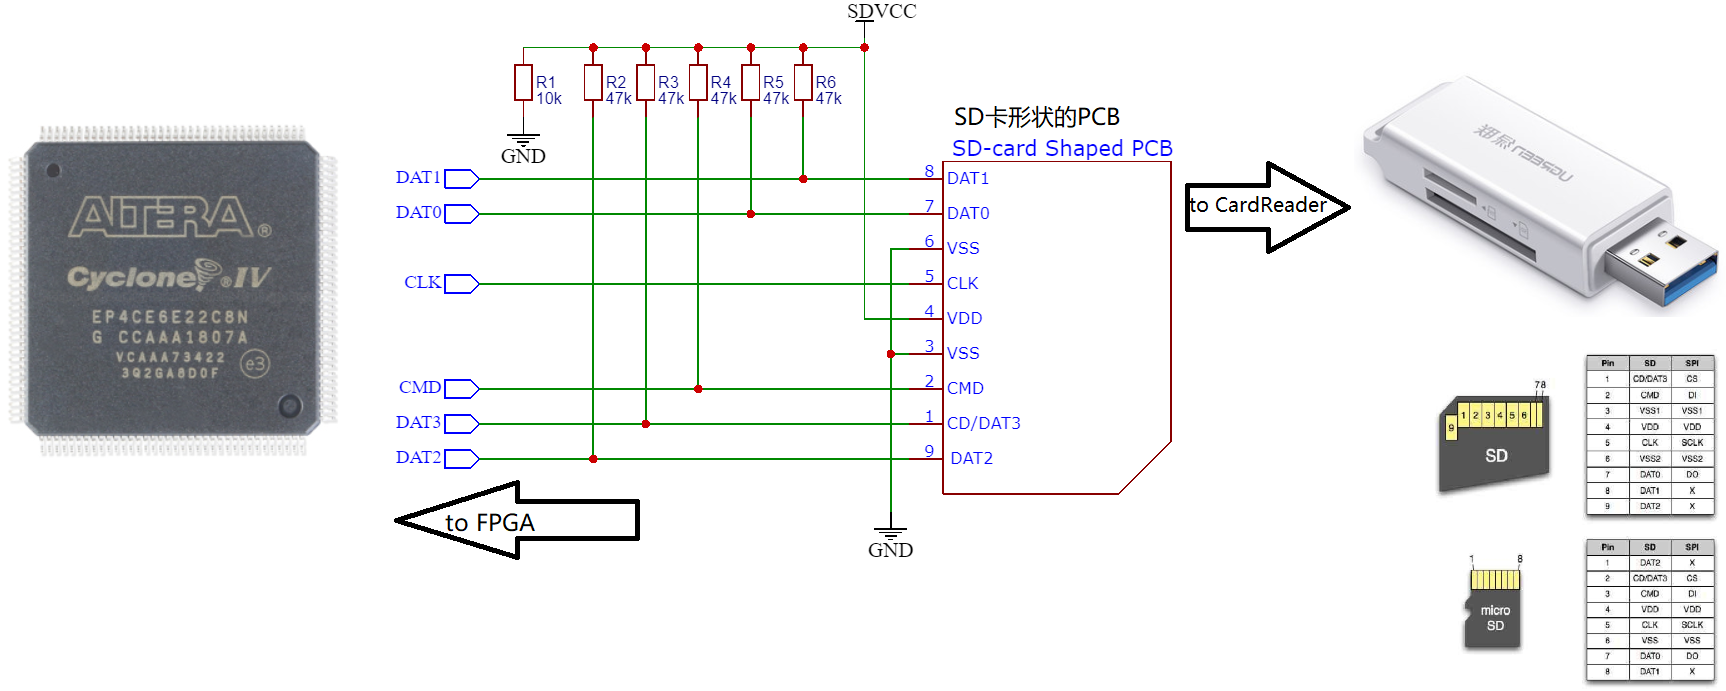
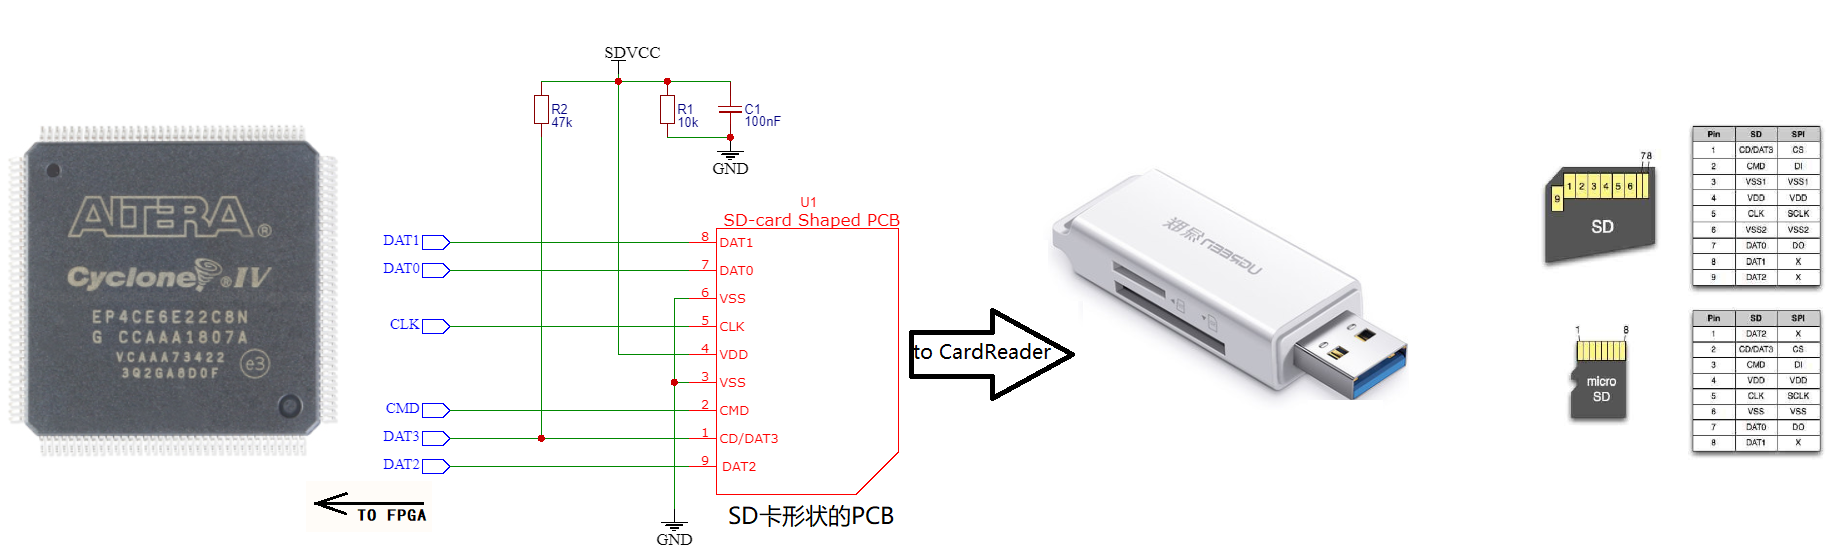
update hardware sch

diff --git a/example/FakeSDcard/README.md b/example/FakeSDcard/README.md
@@ -21,7 +21,15 @@ FPGA模拟SD卡示例
 
 如下图，你需要想办法将 **FPGA连接到读卡器** 。笔者画了一个 **SD卡形状的PCB** ，能插入读卡器中。 当然，你可以采取飞线的方式等。
 
-注意：下图所示的 **R1电阻** 是必要的，因为 SD读卡器认为插入SD卡后 **必然会消耗一定的电流** ，这里 **R1电阻** 就是用来产生这个电流的。如果没有 **R1电阻** ，SD卡不会被读卡器识别。
+注意事项：
+
+* 下图所示的 **R1电阻** 和 **C1电容** 是必要的，因为 SD读卡器认为插入SD卡后 **必然会消耗一定的电流** ，这里 **R1电阻** 就是用来产生这个电流的。如果没有 **R1电阻** ，SD卡不会被读卡器识别。
+
+* 下图所示的 **R2电阻** 是必要的，因为 DAT3 信号兼具 SD卡插入检测功能，上拉电阻R2用来生成检测信号。
+
+* SDVCC 电源是读卡器提供的，该电源 **不允许** 用于给 FPGA 系统电路供电， FPGA应该使用额外的电源。 
+
+* **R2电阻** 可以上拉到 SDVCC 上，也可以上拉到 FPGA 系统电源上。
 
 ![推荐硬件电路](https://github.com/WangXuan95/FPGA-SDcard/blob/master/images/FakeSD_sch.png)
 
